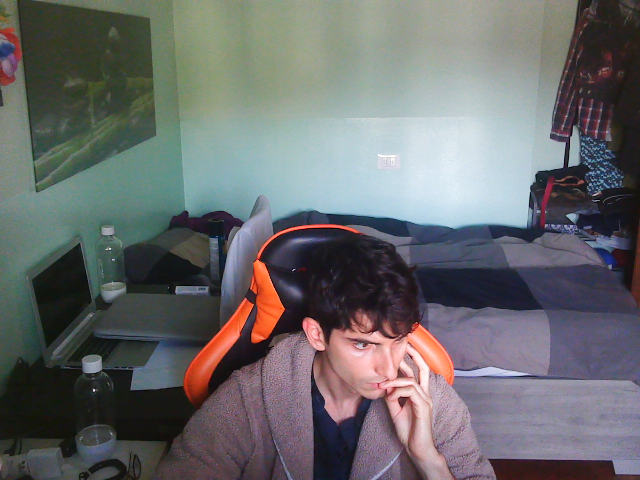
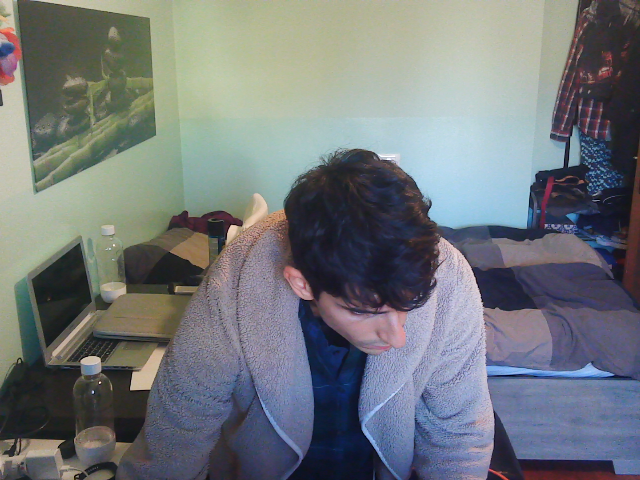
save scene

diff --git a/PhysicalMetaverseUnity/Assets/PoseManager.cs b/PhysicalMetaverseUnity/Assets/PoseManager.cs
@@ -181,6 +181,8 @@ public class PoseManager : Monosingleton<PoseManager>
         //transform.localRotation = Quaternion.LookRotation(YDirection(_joints["Left Shoulder"], _joints["Right Shoulder"]));
         //quaternion destRotation = Quaternion.LookRotation(YDirection(_joints["Left Shoulder"], _joints["Right Shoulder"])) + 180 on y
         Quaternion destRotation = Quaternion.LookRotation(YDirection(_poseJoints["Left Shoulder"], _poseJoints["Right Shoulder"])) * Quaternion.Euler(0, -_rotationOffset, 0);
+        //rotate 180
+        destRotation *= Quaternion.Euler(0, 180, 0);
         //lerp
         _rotoTraslation.localRotation = Quaternion.Lerp(_rotoTraslation.localRotation, destRotation, _lerpSpeed);
 
